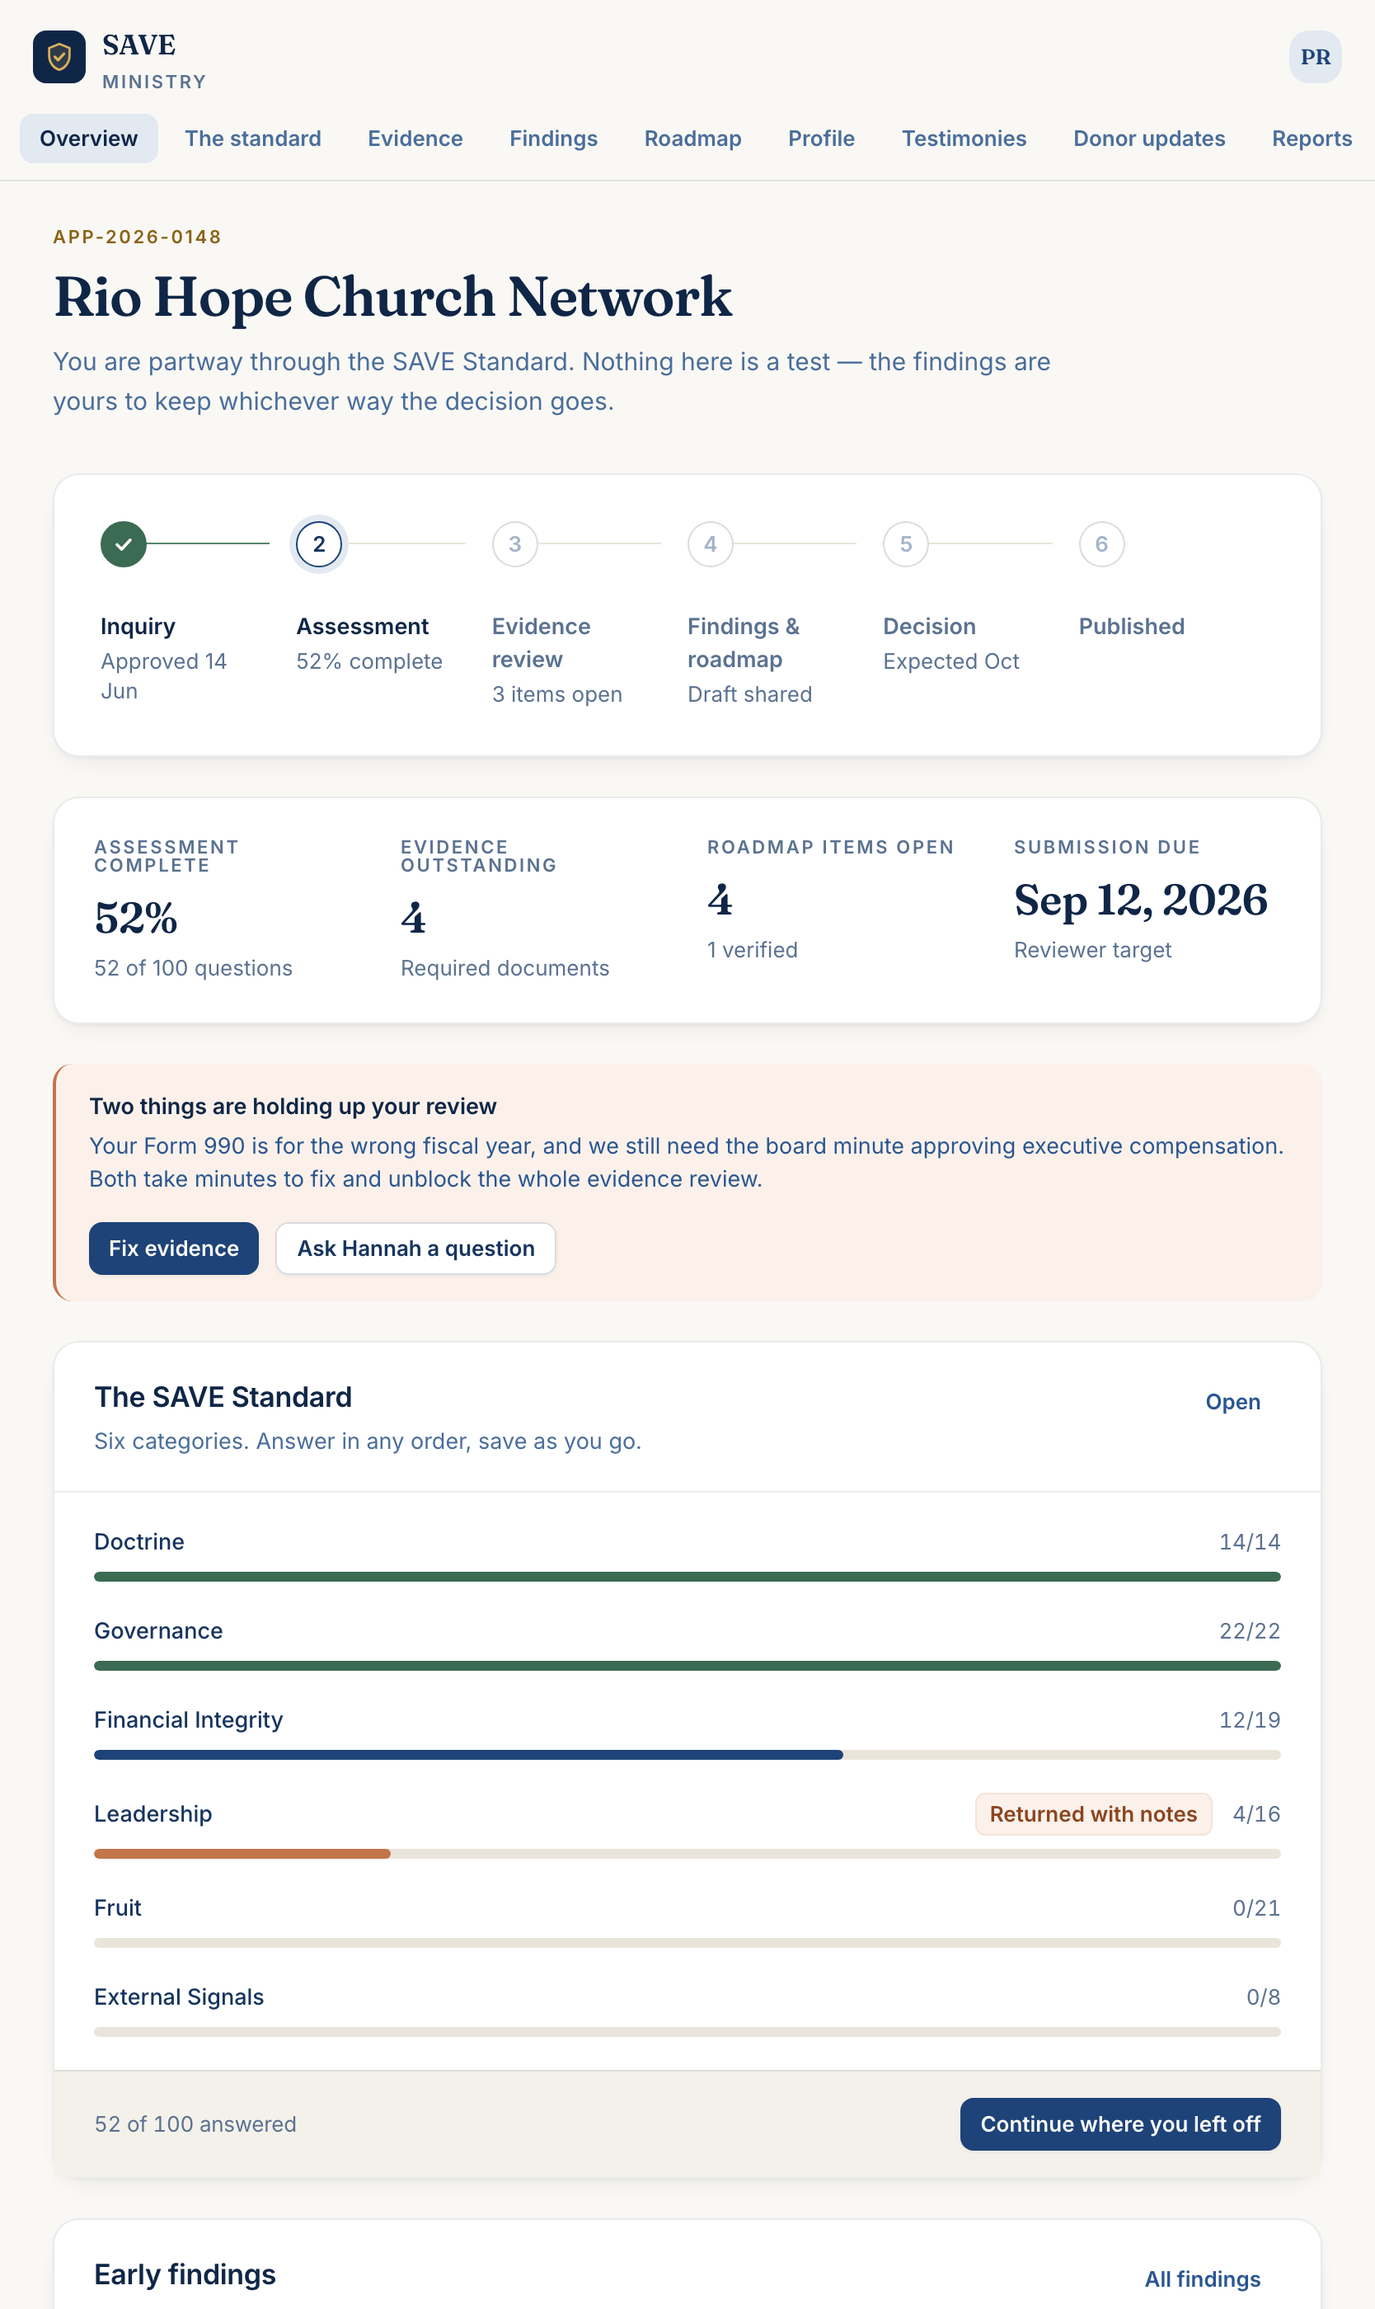
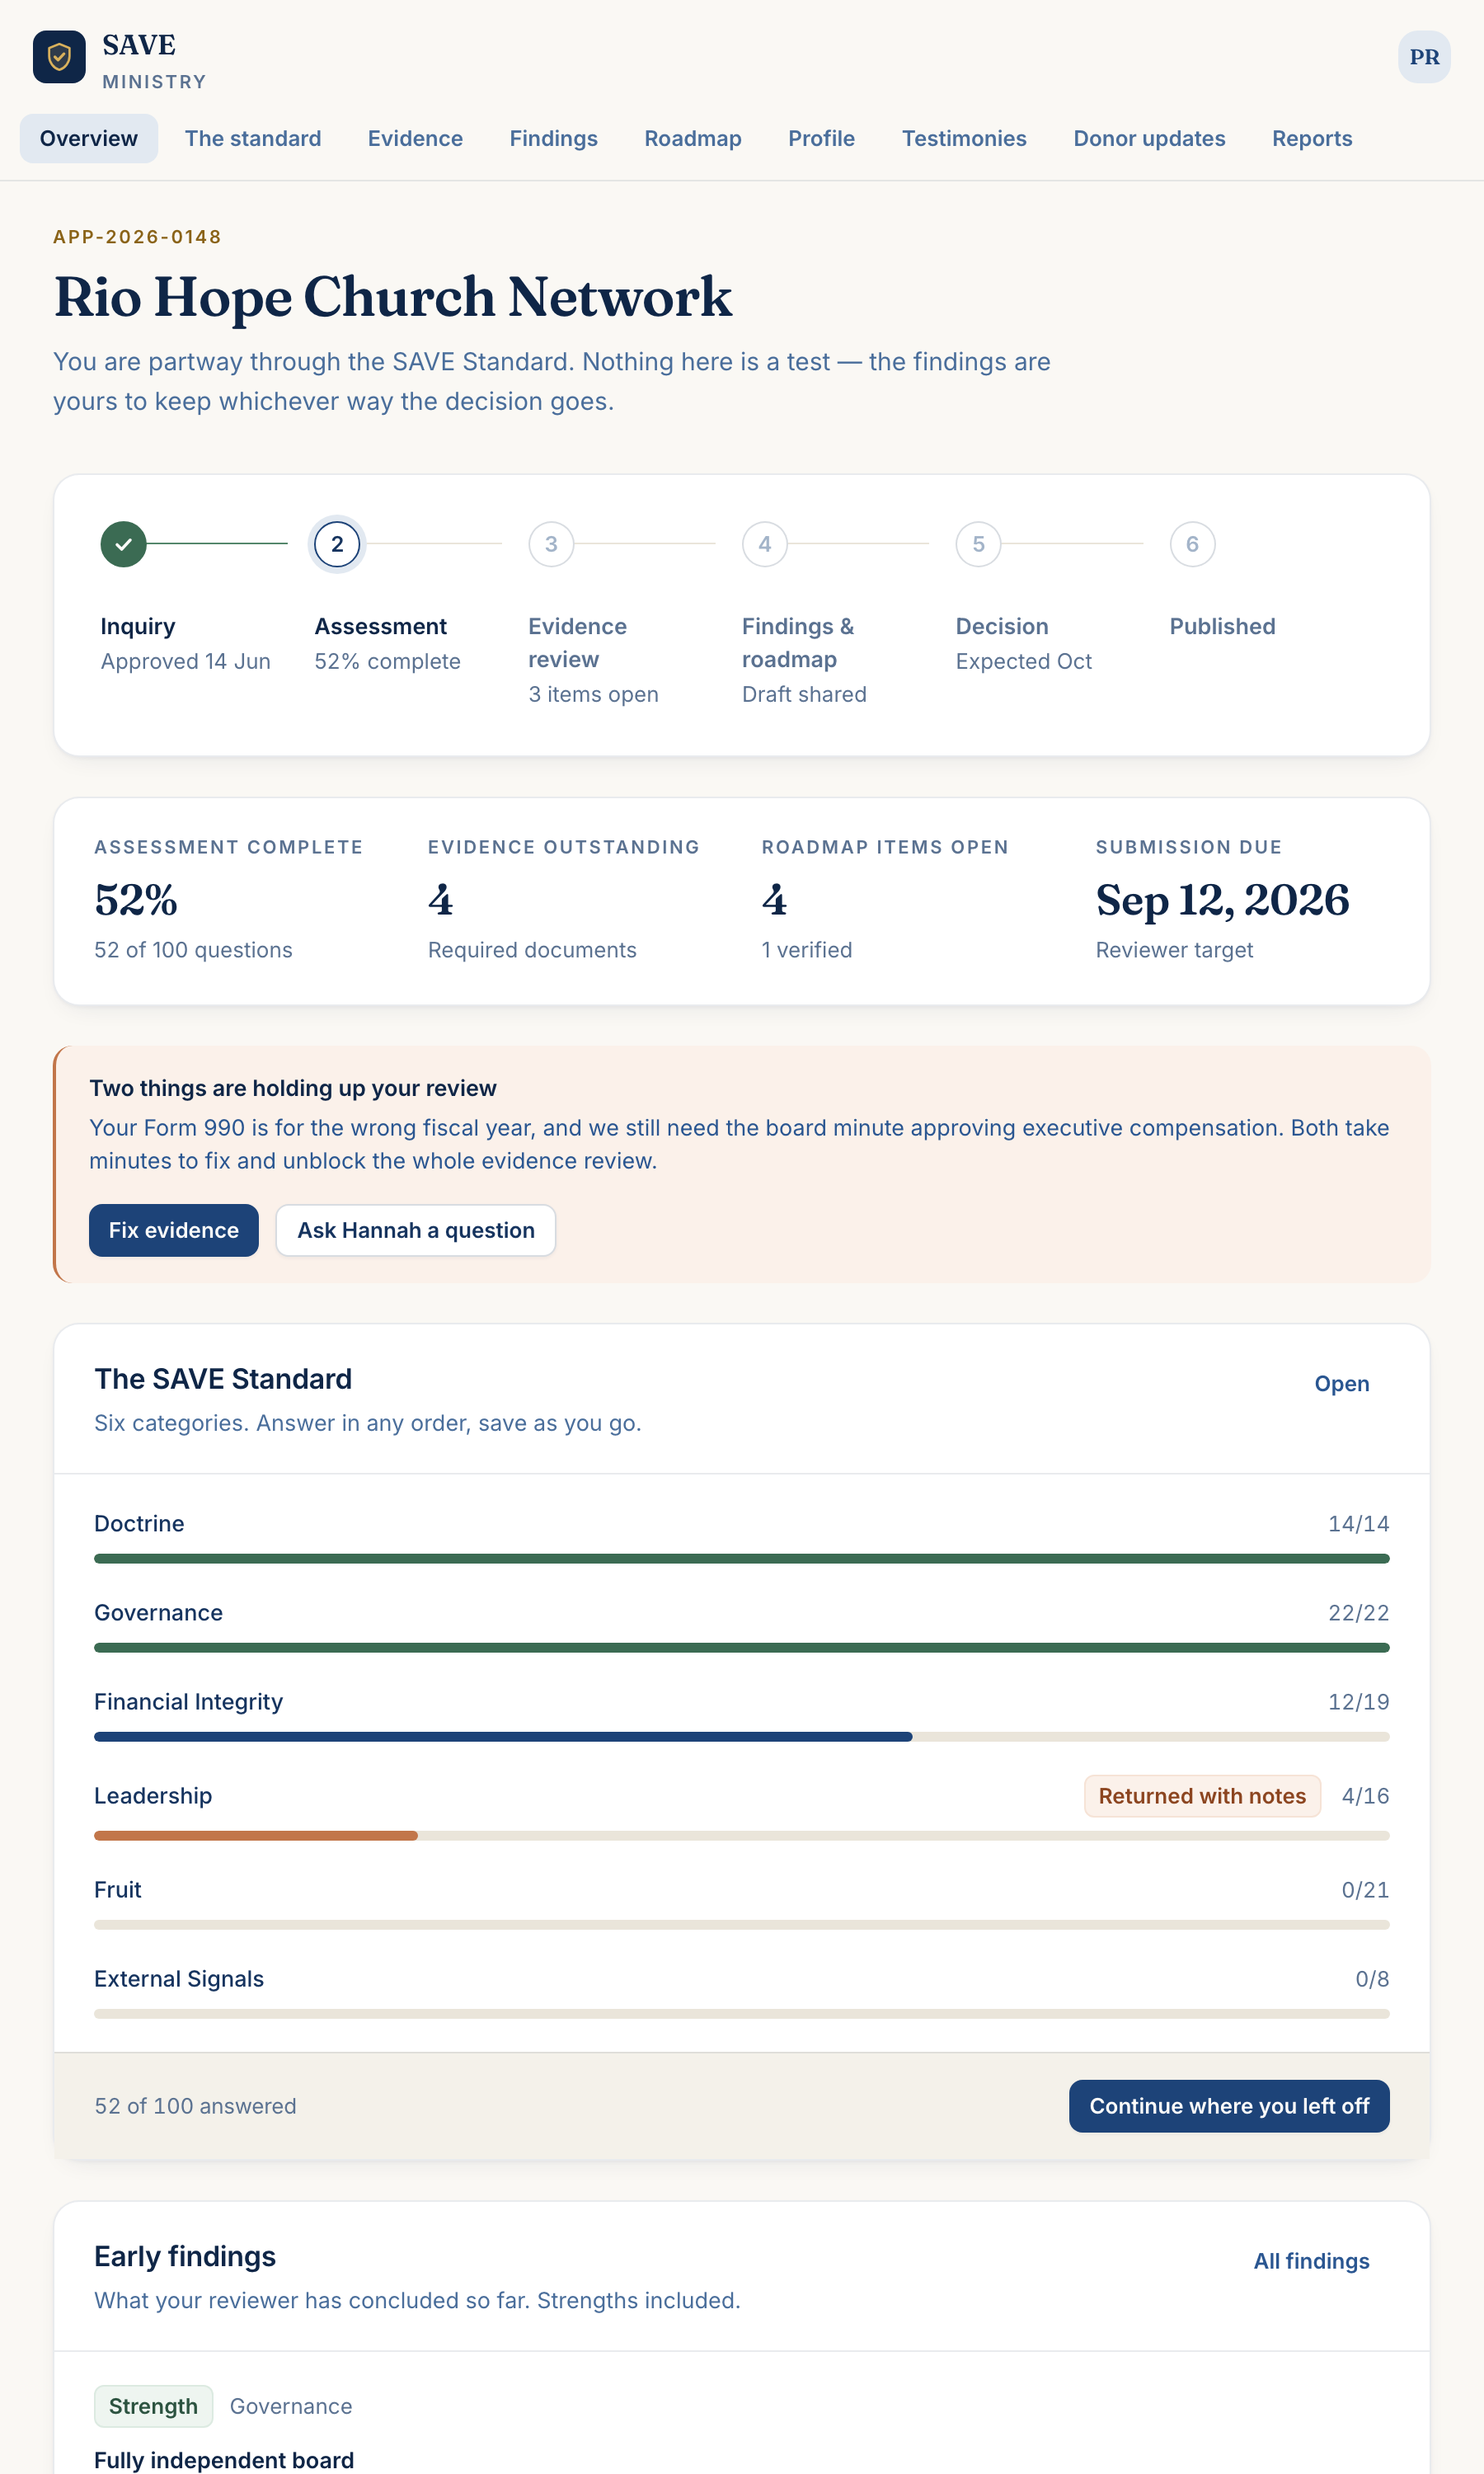
USA-133: screenshot index and faithful responsive captures
Headless Chrome will not lay out below ~640px — it crops instead of
reflowing — so the three responsive captures were retaken at 640 and 900.
The sub-640 breakpoints were verified in an emulated 414px viewport
(scrollWidth === clientWidth, no horizontal overflow) and that method is
recorded in the index.

diff --git a/docs/usa-133/screenshots/INDEX.md b/docs/usa-133/screenshots/INDEX.md
@@ -1,0 +1,65 @@
+# Screenshots
+
+Captured at 2× from a production build. Review in numbered order.
+
+## Orientation
+
+| | |
+|---|---|
+| `01-preview-index` | Index of all 17 screens |
+| `02-design-language` | Colour, type, components, spacing — rendered from live tokens |
+
+## Public
+
+| | |
+|---|---|
+| `03-public-library` | Ministry library — the front door |
+| `04-public-ministry-profile` | Ministry profile with assessment and provenance |
+
+## Donor Portal
+
+| | |
+|---|---|
+| `05-donor-dashboard` | Home — relationship feed, position, advisor, prayer |
+| `06-donor-giving` | Gift history, annual statements, commitments |
+| `07-donor-ministry-detail` | Ministry detail — the relationship view |
+| `08-donor-following` | Following and saved for later |
+| `09-donor-prayer` | Prayer requests |
+
+## Ministry Portal
+
+| | |
+|---|---|
+| `10-ministry-dashboard` | Overview — journey and next best action |
+| `11-ministry-assessment` | Assessment workflow with inline reviewer notes |
+| `12-ministry-evidence` | Evidence upload and per-item status |
+| `13-ministry-findings` | Findings — strengths, gaps, risks |
+| `14-ministry-roadmap` | Roadmap and implementation |
+| `15-ministry-profile-edit` | Profile editing |
+| `16-ministry-testimonies` | Testimonies with consent capture |
+| `17-ministry-reports` | Twice-yearly reporting |
+
+## Staff Portal
+
+| | |
+|---|---|
+| `18-staff-queue` | Application queue with SLA and reviewer load |
+| `19-staff-review` | Reviewer workspace — evidence, scoring, findings, decision |
+| `20-staff-publishing` | Publishing workflow with its gates |
+| `21-staff-leaders` | Leader health |
+| `22-staff-audit` | Audit history |
+
+## Responsive
+
+| | |
+|---|---|
+| `23-narrow-donor` | Donor home at 640px |
+| `24-narrow-library` | Public library at 640px |
+| `25-tablet-ministry` | Ministry overview at 900px |
+
+**A note on these three.** Headless Chrome will not lay out below roughly
+640px — it crops rather than reflows — so a true 375/414px capture is not
+possible this way. The sub-640 breakpoints were verified in an emulated
+414px viewport instead: `document.scrollWidth === clientWidth === 414`, with
+no horizontal overflow, the stat row at 2-up, cards single column, and the
+navigation strip scrolling inside its own container as designed.

diff --git a/docs/usa-133/README.md b/docs/usa-133/README.md
@@ -11,7 +11,8 @@ Start here: **[00-founder-review.md](00-founder-review.md)**
 | [04-component-system.md](04-component-system.md) | The reusable component library |
 | [05-mvp-recommendation.md](05-mvp-recommendation.md) | Launch / V2 / Future and build order |
 
-Screenshots are in [`screenshots/`](screenshots/), numbered in review order.
+Screenshots are in [`screenshots/`](screenshots/), numbered in review order —
+see [`screenshots/INDEX.md`](screenshots/INDEX.md).
 
 ## Running the preview
 
